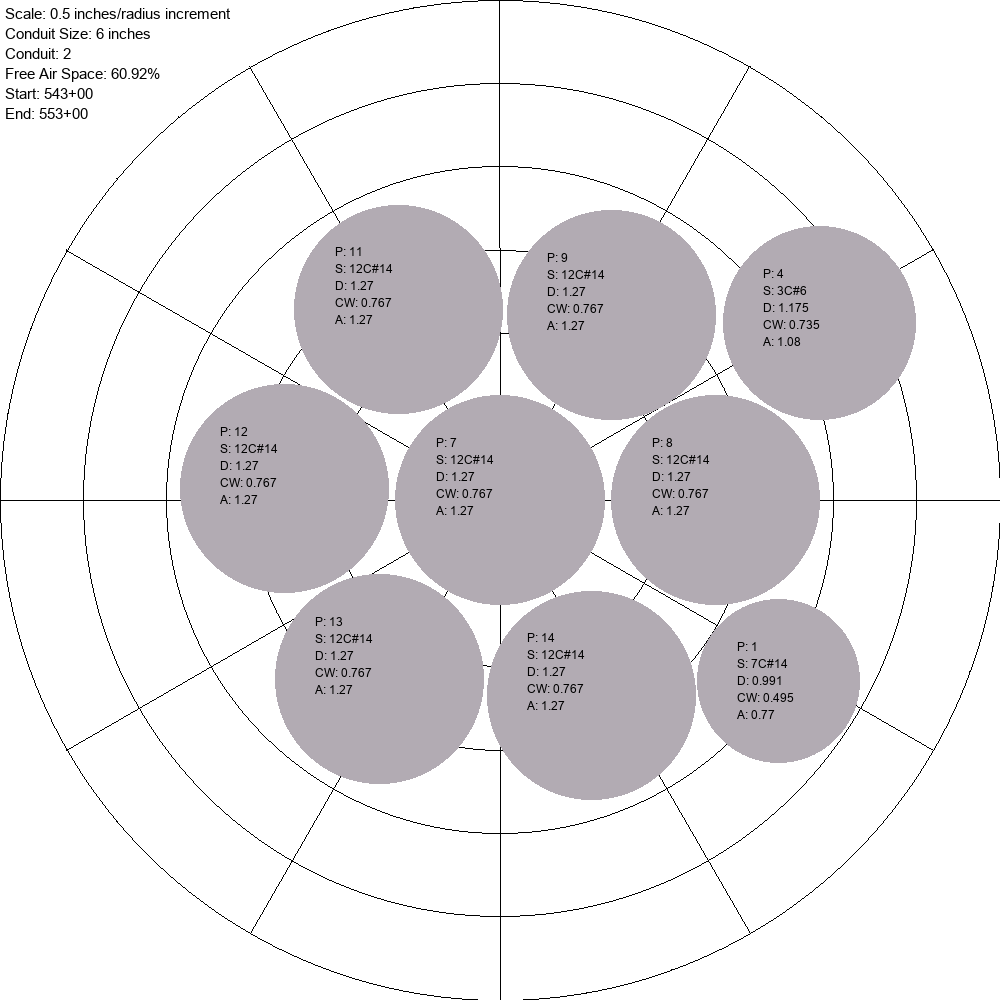
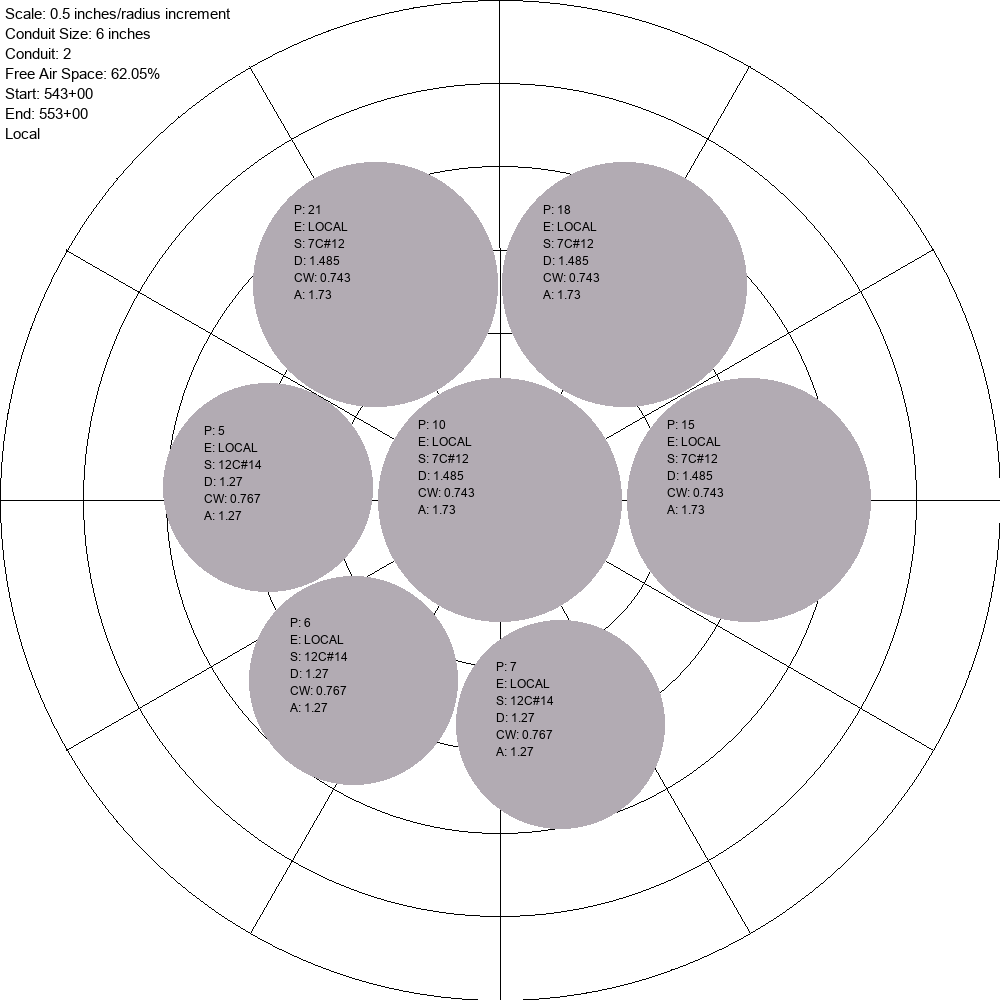
Express/Local Sorted Well

diff --git a/conduit_algorithm.py b/conduit_algorithm.py
@@ -5,22 +5,14 @@ import math
 
 
 def optimize_for_conduit():
-    global conduit_free_air_space
     from file_handler import stationing_values
-    from file_handler import generate_output_file
-    global conduit_number
-    global stationing_start_text
-    global stationing_end_text
 
     # Loop through the stationing values and group cables within each stationing range
+    print(len(stationing_values))
     for i in range(len(stationing_values) - 1):
         # define the two stationing values that cables will be optimized between
         start_stationing = stationing_values[i]
         end_stationing = stationing_values[i + 1]
-
-        # Text for generated image
-        stationing_start_text = f"{str(start_stationing)[:-2]}+{str(start_stationing)[-2:]}"
-        stationing_end_text = f"{str(end_stationing)[:-2]}+{str(end_stationing)[-2:]}"
 
         # Create a list to store cables within the current stationing range
         cables_within_range = []
@@ -31,41 +23,93 @@ def optimize_for_conduit():
                 cables_within_range.append(cable)
 
         # Sort cables within the range based on cross-sectional area (largest cable first)
-        cables_within_range.sort(key=lambda cable: cable.cross_sectional_area, reverse=True)
+        # cables_within_range.sort(key=lambda cable: cable.cross_sectional_area, reverse=True)
 
-        # Create initial conduit for stationing range
-        conduit_name = "Conduit" + str(conduit_number)
-        conduit = Conduit(start_stationing, end_stationing, conduit_free_air_space)
-        conduits[conduit_name] = conduit
-
-        # Go through all cables in the stationing range
+        # Separate express and local cables
+        express_cables = []
+        local_cables = []
         for cable in cables_within_range:
-            # Check if cable added to current conduit wouldn't violate free air space requirement
-            if check_free_air_space(conduit, cable) == 0:
-                find_open_space(conduit, cable)
-            # else if cable can't fit, then create image for the current conduit and move onto next conduits
-            else:
-                print("Creating new conduit")
 
-                # Draw image, reset draw queue, increment conduit number printed onto next image
-                generate_cable_image(draw_queue)    # Create full conduit image
-                draw_queue.clear()                  # Empty draw queue for next image
-                conduit_number += 1                 # Identifier for image
-                conduit_name = "Conduit" + str(conduit_number)
+            if cable.express.lower() == "express":
+                # print("EXPRESS CABLE")
+                # print(f"Cable Info: Pull Number={cable.pull_number}, Size={cable.cable_size}, "
+                #       f"Diameter={cable.diameter}, Weight={cable.weight}, "
+                #       f"Cross Sectional Area={cable.cross_sectional_area}, "
+                #       f"Express={cable.express}")
 
-                conduit = Conduit(start_stationing, end_stationing, conduit_free_air_space)
-                conduits[conduit_name] = conduit
+                express_cables.append(cable)
+            elif cable.express.lower() == "local":
+                # print("LOCAL CABLE")
+                # print(f"Cable Info: Pull Number={cable.pull_number}, Size={cable.cable_size}, "
+                #       f"Diameter={cable.diameter}, Weight={cable.weight}, "
+                #       f"Cross Sectional Area={cable.cross_sectional_area}, "
+                #       f"Express={cable.express}")
 
-                conduit_free_air_space = 100 # Reset airspace in conduit
+                local_cables.append(cable)
 
-                # With the cable that failed to be placed into the previous conduit, place into next one
-                check_free_air_space(conduit, cable)    # This function should always pass
-                find_open_space(conduit, cable)         # Place next conduit at 0,0
+        # Sort express and local cables separately based on cross-sectional area
+        express_cables.sort(key=lambda cable: cable.cross_sectional_area, reverse=True)
 
-        generate_cable_image(draw_queue)  # Create full conduit image
-        draw_queue.clear()  # Empty draw queue for next image
-        conduit_number += 1  # Identifier for image
-        conduit_name = "Conduit" + str(conduit_number)
+        for cable in express_cables:
+            print(f"Cable Info: Pull Number={cable.pull_number}, Size={cable.cable_size}, "
+                  f"Diameter={cable.diameter}, Weight={cable.weight}, "
+                  f"Cross Sectional Area={cable.cross_sectional_area}, "
+                  f"Express={cable.express}")
+        local_cables.sort(key=lambda cable: cable.cross_sectional_area, reverse=True)
+
+        # Create conduits, express cables first, then local cables
+        create_conduits(express_cables, start_stationing, end_stationing, 1)
+        create_conduits(local_cables, start_stationing, end_stationing, 0)
+
+
+def create_conduits(cables_within_range, start_stationing, end_stationing, express):
+    global express_text
+    global conduit_free_air_space
+    global conduit_number
+    global stationing_start_text
+    global stationing_end_text
+    from file_handler import stationing_values
+
+    # Text for generated image
+    stationing_start_text = f"{str(start_stationing)[:-2]}+{str(start_stationing)[-2:]}"
+    stationing_end_text = f"{str(end_stationing)[:-2]}+{str(end_stationing)[-2:]}"
+
+    if express:
+        express_text = "Express"
+    else:
+        express_text = "Local"
+
+    # Create initial conduit for stationing range
+    conduit_name = "Conduit" + str(conduit_number)
+    conduit = Conduit(start_stationing, end_stationing, conduit_free_air_space)
+    conduits[conduit_name] = conduit
+
+    # Go through all cables in the stationing range
+    for cable in cables_within_range:
+        # Check if cable added to current conduit wouldn't violate free air space requirement
+        if check_free_air_space(conduit, cable) == 0:
+            find_open_space(conduit, cable)
+        # else if cable can't fit, then create image for the current conduit and move onto next conduits
+        else:
+            # Draw image, reset draw queue, increment conduit number printed onto next image
+            generate_cable_image(draw_queue)    # Create full conduit image
+            draw_queue.clear()                  # Empty draw queue for next image
+            conduit_number += 1                 # Identifier for image
+            conduit_name = "Conduit" + str(conduit_number)
+
+            conduit = Conduit(start_stationing, end_stationing, conduit_free_air_space)
+            conduits[conduit_name] = conduit
+
+            conduit_free_air_space = 100 # Reset airspace in conduit
+
+            # With the cable that failed to be placed into the previous conduit, place into next one
+            check_free_air_space(conduit, cable)    # This function should always pass
+            find_open_space(conduit, cable)         # Place next conduit at 0,0
+
+    generate_cable_image(draw_queue)  # Create full conduit image
+    draw_queue.clear()  # Empty draw queue for next image
+    conduit_number += 1  # Identifier for image
+    conduit_name = "Conduit" + str(conduit_number)
 
 
 def check_free_air_space(conduit, cable):

diff --git a/file_handler.py b/file_handler.py
@@ -180,107 +180,6 @@ def sort_stationing():
         print(f"{str(value)[:-2]}+{str(value)[-2:]}")
 
 
-# def generate_output_file():
-#     print("Generating output file...")
-#
-#     # Create a new workbook and select the active sheet
-#     workbook = openpyxl.Workbook()
-#     sheet = workbook.active
-#
-#     # Set column headers
-#     headers = [
-#         "Conduit Name",
-#         "Cable Pull Numbers",
-#         "Stationing Start",
-#         "Stationing End",
-#         "Cable Size",
-#         "Express",
-#         "Diameter",
-#         "Weight",
-#         "Cross Sectional Area"
-#     ]
-#     sheet.append(headers)
-#
-#     # Write conduit data and cable attributes to the Excel file
-#     for conduit_name, conduit in conduits.items():
-#         for cable in conduit.cables:
-#             row_data = [
-#                 conduit_name,
-#                 cable.pull_number,
-#                 f"{str(cable.stationing_start)[:-2]}+{str(cable.stationing_start)[-2:]}",
-#                 f"{str(cable.stationing_end)[:-2]}+{str(cable.stationing_end)[-2:]}",
-#                 cable.cable_size,
-#                 cable.express,
-#                 cable.diameter,
-#                 cable.weight,
-#                 cable.cross_sectional_area
-#             ]
-#             sheet.append(row_data)
-#
-#     # Merge cells for conduit names and align them to the middle
-#     current_conduit = None
-#     start_merge_row = 2
-#     for row in sheet.iter_rows(min_row=2, max_row=sheet.max_row, min_col=1, max_col=1):
-#         conduit_cell = row[0]
-#         if conduit_cell.value != current_conduit:
-#             if current_conduit is not None:
-#                 end_merge_row = conduit_cell.row - 1
-#                 merged_range = f"A{start_merge_row}:A{end_merge_row}"
-#                 sheet.merge_cells(merged_range)
-#                 for row_num in range(start_merge_row, end_merge_row + 1):
-#                     cell = sheet[f"A{row_num}"]
-#                     cell.alignment = openpyxl.styles.Alignment(horizontal="center", vertical="center")
-#             current_conduit = conduit_cell.value
-#             start_merge_row = conduit_cell.row
-#
-#     # Merge the last set of cells and align them to the middle
-#     end_merge_row = sheet.max_row
-#     merged_range = f"A{start_merge_row}:A{end_merge_row}"
-#     sheet.merge_cells(merged_range)
-#     for row_num in range(start_merge_row, end_merge_row + 1):
-#         cell = sheet[f"A{row_num}"]
-#         cell.alignment = openpyxl.styles.Alignment(horizontal="center", vertical="center")
-#
-#     # Set column width to fit the text in each header
-#     for col_num, header in enumerate(headers, start=1):
-#         col_letter = openpyxl.utils.get_column_letter(col_num)
-#         column_width = max(len(header), max(len(str(cell.value)) for cell in sheet[col_letter]))
-#         sheet.column_dimensions[col_letter].width = column_width + 2  # Adding some extra width for padding
-#
-#     # Save the workbook to a file
-#     output_filename = "Output File.xlsx"
-#     workbook.save(output_filename)
-#     print(f"Conduit data has been saved to {output_filename}")
-#
-#     print("Output file generated")
-
-# def merge_cells_by_value(sheet, col_letter):
-#     current_value = None
-#     start_merge_row = 2
-#     min_col = openpyxl.utils.column_index_from_string(col_letter)
-#     max_col = min_col  # Since you're merging cells in a single column
-#     for row in sheet.iter_rows(min_row=2, max_row=sheet.max_row, min_col=min_col, max_col=max_col):
-#         cell = row[0]
-#         if cell.value != current_value:
-#             if current_value is not None:
-#                 end_merge_row = cell.row - 1
-#                 merge_range = f"{col_letter}{start_merge_row}:{col_letter}{end_merge_row}"
-#                 sheet.merge_cells(merge_range)
-#                 for row_num in range(start_merge_row, end_merge_row + 1):
-#                     cell = sheet[f"{col_letter}{row_num}"]
-#                     cell.alignment = openpyxl.styles.Alignment(horizontal="center", vertical="center")
-#             current_value = cell.value
-#             start_merge_row = cell.row
-#
-#     # Merge the last set of cells and align them to the middle
-#     end_merge_row = sheet.max_row
-#     merge_range = f"{col_letter}{start_merge_row}:{col_letter}{end_merge_row}"
-#     sheet.merge_cells(merge_range)
-#     for row_num in range(start_merge_row, end_merge_row + 1):
-#         cell = sheet[f"{col_letter}{row_num}"]
-#         cell.alignment = openpyxl.styles.Alignment(horizontal="center", vertical="center")
-
-
 def generate_output_file():
     print("Generating output file...")
 

diff --git a/visualizer.py b/visualizer.py
@@ -29,6 +29,7 @@ def draw_cable(draw, radius, angle_deg, cable, polar_center):
     diameter = cable.diameter
     pounds_per_foot = cable.weight
     cross_sectional_area = cable.cross_sectional_area
+    express = cable.express
 
     # Calculate the scaled radius based on the cable's diameter
     cable_radius = diameter * scaling_factor
@@ -53,6 +54,7 @@ def draw_cable(draw, radius, angle_deg, cable, polar_center):
 
     text_lines = [
         f"P: {pull_number}",
+        f"E: {express}",
         f"S: {size}",
         f"D: {diameter}",
         f"CW: {pounds_per_foot}",
@@ -143,6 +145,7 @@ def generate_cable_image(draw_queue):
     stationing_end_text = f"End: {stationing_end_text}"
     from conduit_algorithm import conduit_free_air_space
     conduit_free_air_space_text = f"Free Air Space: {conduit_free_air_space}%"
+    from conduit_algorithm import express_text
     conduit_number += 1
     text_color = "black"
     font_size = 15
@@ -164,6 +167,8 @@ def generate_cable_image(draw_queue):
     draw.text((text_x, text_y), stationing_start_text, fill=text_color, font=font)
     text_y += font_size + 5  # Adjust vertical spacing
     draw.text((text_x, text_y), stationing_end_text, fill=text_color, font=font)
+    text_y += font_size + 5  # Adjust vertical spacing
+    draw.text((text_x, text_y), express_text, fill=text_color, font=font)
 
     # Save the image to a file or display it
     # image.save("Conduit " + str(conduit_number) + ".png", dpi=dpi)  # Higher resolution

diff --git a/main.py b/main.py
@@ -10,5 +10,5 @@ from visualizer import get_cable_pull_sheet
 get_cable_sizes()             # Excel of all cables and their parameters
 get_cable_pull_sheet()        # Pull sheet excel
 sort_stationing()             # List each stationing value in the pull sheet, ordered
-optimize_for_conduit()
-generate_output_file()
+optimize_for_conduit()        # Run conduit algorithm, generate conduit images
+# generate_output_file()        # Create output excel file with generated conduits

diff --git a/cable_classes.py b/cable_classes.py
@@ -61,6 +61,7 @@ conduit_free_air_space = 100
 # Text for image generation
 stationing_start_text = None
 stationing_end_text = None
+express_text = "Test"
 
 # Initialize an empty list to store unique stationing values
 stationing_values = list()
